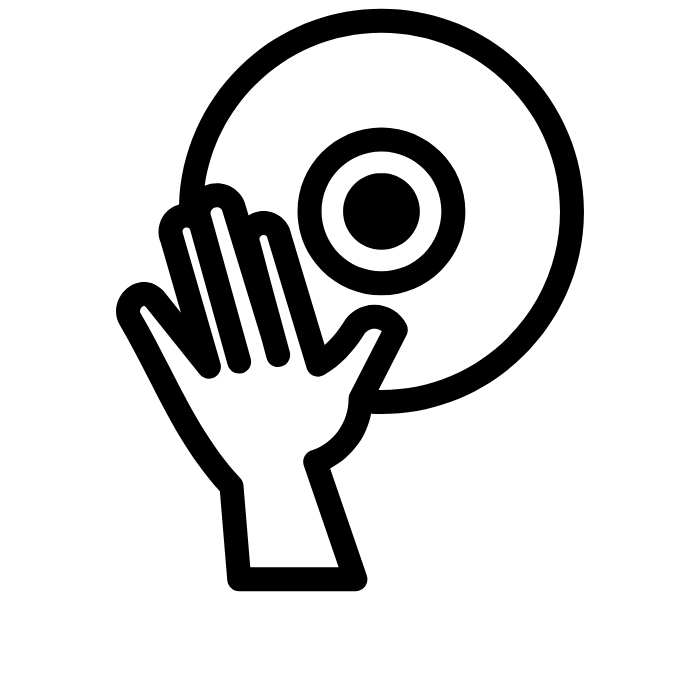
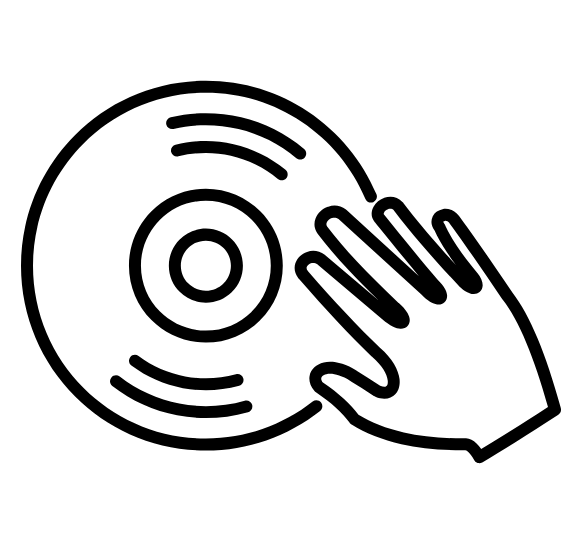
add DJ

Changed region(s): [[0.0298, 0.0, 0.9842, 0.8641]]

diff --git a/utils/categories.js b/utils/categories.js
@@ -80,6 +80,10 @@ export const categories = [
       {
         name: "Clarinet",
         imagePath: "/assets/Music/clarinet_icon.png",
+      },
+      {
+        name: "DJ",
+        imagePath: "/assets/Music/dj_icon.png",
       }
     ],
   },
